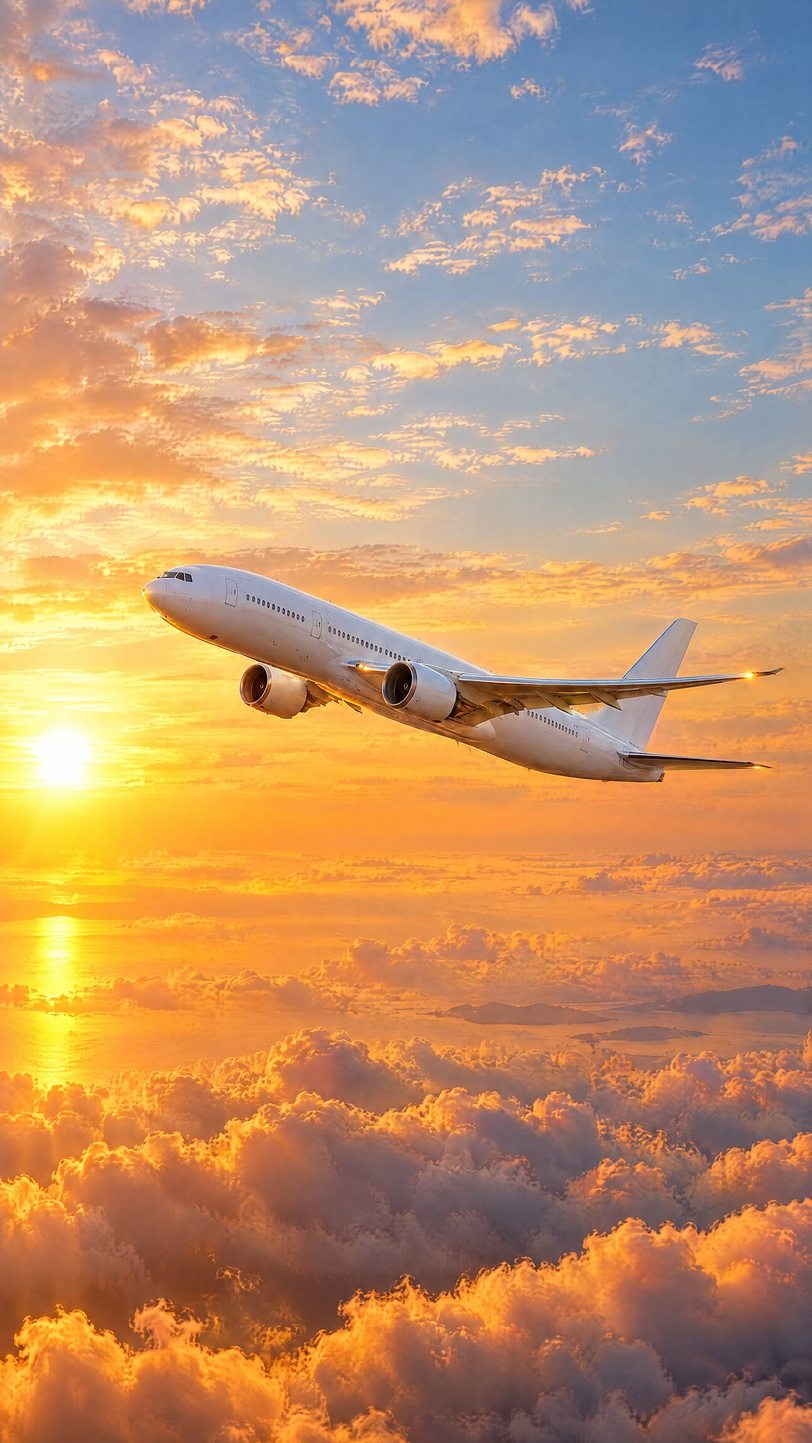
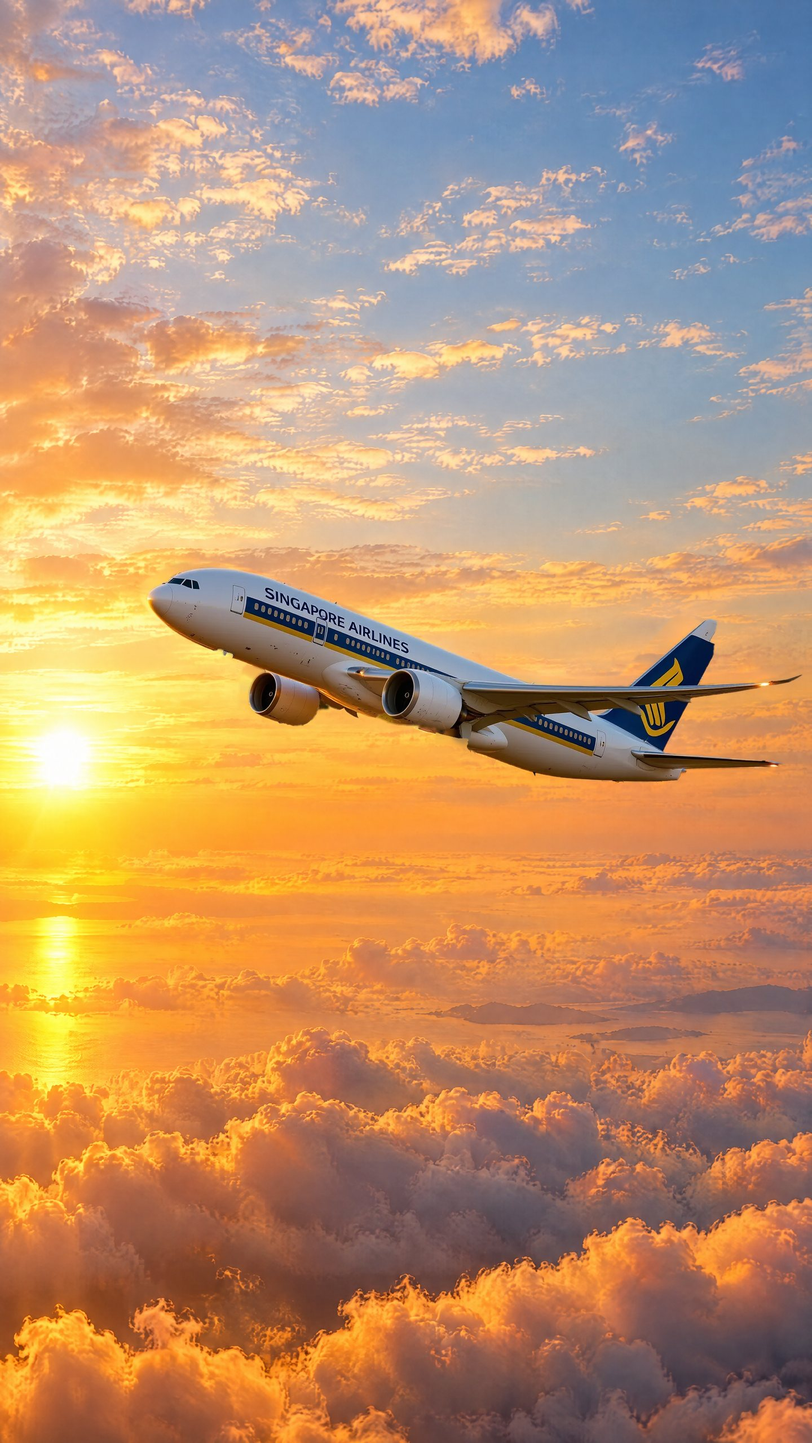
Diwali page: Diwali hero, Singapore Airlines plane, real parasailing photo, new villa tiles; pictures stay sharp on slower PCs
Owner's second round:
- Hero = the photo half of the owner's Diwali banner (baked text/button cropped away), headline ~27% smaller,
  "Illustrative image" label at every width.
- Plane in Singapore Airlines colours, original sky untouched (desktop + phone). A twin-jet, not an A380; the fine
  print says the aircraft type may differ.
- Water-sports chapter: real Commons photo "Parasailing in Tanjung Benoa" (Christophe95, CC BY-SA 4.0, credited).
- Clifftop: the owner's 3776px copy, sharpened without adding halos; phone crop.
- Owner's images as tiles: Jimbaran villa, new Day 4 (beach) and Day 7 (villa day); villa.jpg on the Diwali chapter.

Engine:
- Ripple strips and lens drops read one copy per frame instead of drawing the canvas onto itself (~100 full-canvas
  copies a frame). UHD 630: 31-47 fps at 70% resolution -> 60 fps at full; 2x screen 14-22 -> 51-60 fps.
- The safety valve never goes below the pre-sharpness size; tiles are paced on the page frame rate.
- Phone/desktop crops are re-picked when a phone turns; a late first load can't undo that.
- Each tile's fallback <img> uses the file its canvas draws: one download per picture.

Reviewed: Bug Hunter (4 rounds), App Security (2), QA acceptance by side effects (4).

Changed region(s): [[0.1562, 0.375, 0.9375, 0.5625]]

diff --git a/diwali-bali.html b/diwali-bali.html
@@ -11,7 +11,8 @@
 <meta name="twitter:card" content="summary_large_image">
 <meta name="theme-color" content="#0A0A0B">
 <link rel="icon" type="image/png" href="images/favicon.png">
-<link rel="preload" as="image" href="images/dest-bali.jpg">
+<link rel="preload" as="image" href="images/diwali-bali/hero-diwali.jpg" media="not all and (max-aspect-ratio: 4/5)">
+<link rel="preload" as="image" href="images/diwali-bali/hero-diwali-m.jpg" media="(max-aspect-ratio: 4/5)">
 <link rel="preconnect" href="https://fonts.googleapis.com">
 <link rel="preconnect" href="https://fonts.gstatic.com" crossorigin>
 <link rel="stylesheet" href="https://fonts.googleapis.com/css2?family=Unbounded:wght@400;600;800&family=JetBrains+Mono:wght@400;600&family=Manrope:wght@400;500;700&family=Tiro+Devanagari+Hindi&display=swap">
@@ -103,7 +104,7 @@ body.grain::after{content:"";position:fixed;inset:-50%;pointer-events:none;z-ind
 .hero{position:relative;height:100vh;height:100svh;min-height:600px;overflow:hidden;display:flex;flex-direction:column;justify-content:flex-end}
 .hero::after{content:"";position:absolute;inset:0;background:linear-gradient(180deg,rgba(10,10,11,.35) 0%,rgba(10,10,11,0) 30%,rgba(10,10,11,.15) 55%,rgba(10,10,11,.92) 100%);pointer-events:none}
 .hero-in{position:relative;z-index:2;padding:0 var(--gut) clamp(28px,5vh,56px);display:flex;flex-direction:column;gap:clamp(16px,2.4vh,26px)}
-.hero h1{font-size:clamp(54px,13.2vw,236px);text-transform:uppercase;line-height:.84}
+.hero h1{font-size:clamp(44px,9.4vw,172px);text-transform:uppercase;line-height:.84}
 .hero h1 .l2{display:block;padding-left:.9em}
 .hero-row{display:flex;justify-content:space-between;align-items:flex-end;gap:20px;flex-wrap:wrap}
 .hero-copy{max-width:44ch;font-size:clamp(15px,1.3vw,18px);color:#E6E1D6}
@@ -115,6 +116,7 @@ body.grain::after{content:"";position:fixed;inset:-50%;pointer-events:none;z-ind
 .chips{display:flex;gap:8px;flex-wrap:wrap}
 .chip{font-family:var(--mono);font-size:11px;letter-spacing:.1em;text-transform:uppercase;padding:6px 11px;border-radius:999px;border:1px solid var(--glass-line);background:rgba(10,10,11,.3);-webkit-backdrop-filter:blur(10px);backdrop-filter:blur(10px)}
 .scroll-cue{position:absolute;z-index:2;right:var(--gut);top:50%;writing-mode:vertical-rl;font-family:var(--mono);font-size:11px;letter-spacing:.2em;text-transform:uppercase;color:var(--ink-2)}
+.hero .hero-tag{top:158px;bottom:auto}
 @media (max-width:640px){.scroll-cue{display:none}.hero h1 .l2{padding-left:0}}
 
 /* counters */
@@ -325,7 +327,8 @@ body.has-cur,body.has-cur a,body.has-cur button,body.has-cur summary,body.has-cu
 <header class="hero" id="top">
   <canvas class="live" id="heroCanvas" aria-hidden="true"></canvas>
   <div class="toran dw" id="toran" aria-hidden="true"></div>
-  <div class="scroll-cue">Scroll · Ulun Danu Beratan, Bali</div>
+  <div class="scroll-cue">Scroll</div>
+  <div class="photo-tag hero-tag">Illustrative image</div>
   <div class="hero-in">
     <div class="chips">
       <span class="chip accent">Diwali special</span>
@@ -430,8 +433,8 @@ body.has-cur,body.has-cur a,body.has-cur button,body.has-cur summary,body.has-cu
       <div class="lbl glass"><h3>Fairfield by Marriott</h3><p>Or Nagraa / Legian, or similar. Deluxe room, a short walk from Kuta Beach.</p></div>
     </a>
     <a class="tile" data-k="exp" href="#itinerary" data-cursor="Explore">
-      <div class="ph"><img src="images/diwali-bali/surf.jpg" alt="Jet ski throwing spray on turquoise water" loading="lazy" data-key="surf"></div>
-      <span class="chip kind">Day 2</span><span class="chip live-tag">Illustrative</span>
+      <div class="ph"><img src="images/diwali-bali/parasail-m.jpg" alt="Two people parasailing above the sea at Tanjung Benoa, Bali" loading="lazy" data-key="surf"></div>
+      <span class="chip kind">Day 2</span><span class="chip live-tag">Photo · Tanjung Benoa</span>
       <div class="lbl glass"><h3>Surf and spray</h3><p>Jet ski, banana boat and parasailing.</p></div>
     </a>
     <div class="tile type dark" data-k="stay">
@@ -449,8 +452,13 @@ body.has-cur,body.has-cur a,body.has-cur button,body.has-cur summary,body.has-cu
       <span class="chip kind">Day 1</span><span class="chip live-tag">Illustrative</span>
       <div class="lbl glass"><h3>Garland welcome</h3><p>A fresh garland and a private transfer on arrival.</p></div>
     </a>
+    <a class="tile" data-k="exp" href="#itinerary" data-cursor="Explore">
+      <div class="ph"><img src="images/diwali-bali/beach-day.jpg" alt="A quiet beach at sunset (illustrative)" loading="lazy" data-key="beach"></div>
+      <span class="chip kind">Day 4</span><span class="chip live-tag">Illustrative</span>
+      <div class="lbl glass"><h3>A free day</h3><p>A free day for the beach, spa or shopping.</p></div>
+    </a>
     <a class="tile" data-k="stay" href="#enquire" data-cursor="View">
-      <div class="ph"><img src="images/diwali-bali/villa.jpg" alt="A private pool villa at dusk (illustrative, not the actual hotel)" loading="lazy" data-key="villa"></div>
+      <div class="ph"><img src="images/diwali-bali/jimbaran-villa.jpg" alt="A private plunge-pool villa in a tropical garden (illustrative, not the actual hotel)" loading="lazy" data-key="villa"></div>
       <span class="chip kind">2 nights · Jimbaran</span><span class="chip live-tag">Illustrative</span>
       <div class="lbl glass"><h3>Royal Tulip Jimbaran</h3><p>Or similar. A one-bedroom villa with its own pool, for Diwali night.</p></div>
     </a>
@@ -460,9 +468,14 @@ body.has-cur,body.has-cur a,body.has-cur button,body.has-cur summary,body.has-cu
       <div class="lbl glass"><h3>Tanah Lot + Ulun Danu</h3><p>Full-day Ubud tour to the two temples on the water.</p></div>
     </a>
     <a class="tile" data-k="exp" href="#itinerary" data-cursor="Explore">
-      <div class="ph"><img src="images/diwali-bali/flight.jpg" alt="Wide-body jet climbing above the clouds at golden hour" loading="lazy" data-key="flight"></div>
+      <div class="ph"><img src="images/diwali-bali/flight.jpg" alt="A Singapore Airlines jet climbing above the clouds at golden hour (illustration)" loading="lazy" data-key="flight"></div>
       <span class="chip kind">Flights</span><span class="chip live-tag">Illustrative</span>
       <div class="lbl glass"><h3>Singapore Airlines</h3><p>Return flights from Ahmedabad, included in the package.</p></div>
+    </a>
+    <a class="tile" data-k="exp" href="#itinerary" data-cursor="Explore">
+      <div class="ph"><img src="images/diwali-bali/villa-day.jpg" alt="An infinity pool beside a villa terrace above the jungle (illustrative, not the actual hotel)" loading="lazy" data-key="villaday"></div>
+      <span class="chip kind">Day 7</span><span class="chip live-tag">Illustrative</span>
+      <div class="lbl glass"><h3>Villa day</h3><p>A free day at the villa.</p></div>
     </a>
     <div class="tile type dark" data-k="exp">
       <span class="mono">Day 6 · Diwali</span>
@@ -536,7 +549,7 @@ body.has-cur,body.has-cur a,body.has-cur button,body.has-cur summary,body.has-cu
     <div class="rv"><b>05</b><span>Entrance fees as per the itinerary</span></div>
     <div class="rv"><b>06</b><span>Garland welcome on arrival and daily mineral water</span></div>
   </div>
-  <p class="fine">*Prices are indicative starting-from estimates per person and can change with season, hotel availability and current rates. Hotels are "or similar" and are confirmed at booking. Photos show the destinations on this trip, not the specific hotels. Images and videos marked "Illustrative" are AI-generated to show the experience, and the aircraft image is not an actual Singapore Airlines plane. The Uluwatu clifftop and temple-gate photos are AI-enhanced from photographs by Bali Star Island.</p>
+  <p class="fine">*Prices are indicative starting-from estimates per person and can change with season, hotel availability and current rates. Hotels are "or similar" and are confirmed at booking. Photos show the destinations on this trip, not the specific hotels. Images and videos marked "Illustrative" are AI-generated to show the experience. The aircraft is an AI illustration in Singapore Airlines colours, not a photograph, and the aircraft type on your flights may differ. The Uluwatu clifftop and temple-gate photos are AI-enhanced from photographs by Bali Star Island. Parasailing photo: <a href="https://commons.wikimedia.org/wiki/File:Parasailing_in_Tanjung_Benoa.jpg" rel="noopener">"Parasailing in Tanjung Benoa"</a> by Christophe95, <a href="https://creativecommons.org/licenses/by-sa/4.0/" rel="noopener">CC BY-SA 4.0</a>, colour-adjusted (and resized for phones).</p>
 </section>
 
 <!-- FAQ -->
@@ -667,8 +680,10 @@ function LiveScene(cv, scenes, opts){
   this.fg=document.createElement('canvas'); this.fgc=this.fg.getContext('2d');
   this.imgs=[]; this.glints=[]; this.blobs=[];
   var self=this;
-  loadImg(scenes[0].src,scenes[0].fb).then(function(im){ self.imgs[0]=im||'missing'; self.resize(); cv.classList.add('ready'); self.kick();
-    scenes.slice(1).forEach(function(s,i){ if(!s.src){ self.imgs[i+1]='gen'; return; } loadImg(s.src,s.fb).then(function(m){ self.imgs[i+1]=m||'missing'; }); });
+  /* a phone turned while these load re-frames the scene (reframe): an answer for a framing no longer wanted is dropped */
+  var first=scenes[0].src;
+  loadImg(first,scenes[0].fb).then(function(im){ if (scenes[0].src===first) self.imgs[0]=im||'missing'; self.resize(); if (self.imgs[0]) cv.classList.add('ready'); self.kick();
+    scenes.slice(1).forEach(function(s,i){ if(!s.src){ self.imgs[i+1]='gen'; return; } var w=s.src; loadImg(w,s.fb).then(function(m){ if (s.src===w) self.imgs[i+1]=m||'missing'; }); });
   });
   if (window.ResizeObserver) new ResizeObserver(function(){ self.resize(); }).observe(cv); else addEventListener('resize',function(){self.resize()});
   new IntersectionObserver(function(e){ self.visible=e[0].isIntersecting; self.kick(); },{rootMargin:'120px'}).observe(cv);
@@ -677,14 +692,16 @@ function LiveScene(cv, scenes, opts){
 }
 LiveScene.prototype.resize=function(){
   var r=this.cv.getBoundingClientRect(); if(!r.width) return;
-  var d=Math.min(window.devicePixelRatio||1,2), w=r.width*d, h=r.height*d, cap=this.opts.cap||(coarse?2.2e6:4.2e6);
+  var dpr=window.devicePixelRatio||1, d=Math.min(dpr,2), w=r.width*d, h=r.height*d, cap=this.opts.cap||(coarse?2.2e6:4.2e6);
   if (w*h>cap){ var k=Math.sqrt(cap/(w*h)); w*=k; h*=k; }
-  var qk=Math.sqrt(this.q||1); w*=qk; h*=qk; // the safety valve (pace) takes pixels off whatever size was settled on
+  /* the safety valve (pace) takes pixels off whatever size was settled on, but never below the size this page drew
+     before the sharpness work (1.5x density, at most 1.8 MP; tiles 0.6 MP): a slow computer is never worse off than before */
+  var d0=Math.min(dpr,1.5); this.minQ=Math.min(1,Math.min(r.width*d0*r.height*d0,this.opts.floor||(coarse?9e5:1.8e6))/(w*h));
+  var qk=Math.sqrt(Math.max(this.q||1,this.minQ)); w*=qk; h*=qk;
   w=Math.round(w); h=Math.round(h);
   if (w===this.W && h===this.H) return;
   this.W=this.cv.width=this.fg.width=w; this.H=this.cv.height=this.fg.height=h;
   this.px=w/r.width; // device px per css px
-  this.fits=null; // pre-shrunk copies are per canvas size
   this.seed();
   if (!this.running) this.frame(0);
 };
@@ -699,18 +716,20 @@ LiveScene.prototype.kick=function(){
   if (this.should() && !this.running){ this.running=true; var last=performance.now();
     var loop=function(now){ if(!self.should()){ self.running=false; return; }
       if (self.opts.every && (self.tick=(self.tick||0)+1)%self.opts.every){ requestAnimationFrame(loop); return; } // draw every Nth frame
-      var dt=Math.min(.05,(now-last)/1000); last=now; self.frame(dt); self.pace(dt); requestAnimationFrame(loop); };
+      var raw=(now-last)/1000, dt=Math.min(.05,raw); last=now; self.frame(dt); self.pace(Math.min(.1,raw/(self.opts.every||1)));
+      requestAnimationFrame(loop); };
     requestAnimationFrame(loop);
   } else if (!this.running && this.imgs[0]) { this.fade=1; this.frame(0); }
 };
-/* sharp by default; a computer that cannot keep ~28 fps (for ~2 s) gets a lower resolution, down to 40% */
+/* sharp by default; a computer that cannot keep ~28 fps (for ~2 s) gets a lower resolution, a step at a time, down to
+   the size this page used to draw at (minQ, set in resize) and never below it */
 LiveScene.prototype.pace=function(dt){
   this.ema=this.ema==null?dt:this.ema*.95+dt*.05; this.nf=(this.nf||0)+1;
-  if (this.nf>120 && this.ema>.036 && (this.q||1)>.4){ this.q=(this.q||1)*.7; this.nf=0; this.ema=null; this.W=0; this.resize(); }
+  if (this.nf>120 && this.ema>.036 && this.minQ && (this.q||1)>this.minQ+.001){ this.q=Math.max(this.minQ,(this.q||1)*.7); this.nf=0; this.ema=null; this.W=0; this.resize(); }
 };
 LiveScene.prototype.camera=function(s){
   var T=this.t, z, px, py;
-  if (this.opts.scroll){ var p=this.scroll; z=1.07+0.11*p; px=(s.pan||.03)*(p-.5)*2; py=-.02*p+Math.sin(T*.3)*.002; }
+  if (this.opts.scroll){ var p=this.scroll, zm=s.zoom||[1.07,.11]; z=zm[0]+zm[1]*p; px=(s.pan||.03)*(p-.5)*2; py=-.02*p+Math.sin(T*.3)*.002; }
   else { z=1.08+0.06*(0.5-0.5*Math.cos(T*0.09)); px=Math.sin(T*0.05)*0.022; py=Math.cos(T*0.037)*0.012; }
   this.mx+=(this.tx-this.mx)*.04; this.my+=(this.ty-this.my)*.04;
   return {z:z, px:px-this.mx*.012, py:py-this.my*.008};
@@ -730,11 +749,20 @@ LiveScene.prototype.fit=function(img){
   var iw=img.naturalWidth, ih=img.naturalHeight; if(!iw) return img;
   var k=Math.max(this.W/iw,this.H/ih)*1.25; // 1.25 covers the drone zoom (up to ~1.2x) so it never upscales the copy
   if (k>=.8) return img;
-  this.fits=this.fits||{}; var key=img.src, c=this.fits[key]; if (c) return c;
-  c=document.createElement('canvas'); c.width=Math.round(iw*k); c.height=Math.round(ih*k);
+  this.fits=this.fits||{}; var key=img.src, c=this.fits[key], cw=Math.round(iw*k);
+  if (c && c.width>=cw && c.width<=cw*1.5) return c; // still fits this canvas (a valve step is ~16%): no second shrink
+  c=document.createElement('canvas'); c.width=cw; c.height=Math.round(ih*k);
   var x=c.getContext('2d'); x.imageSmoothingEnabled=true; x.imageSmoothingQuality='high'; x.drawImage(img,0,0,c.width,c.height);
   c.naturalWidth=c.width; c.naturalHeight=c.height; // cover() reads these
   return this.fits[key]=c;
+};
+/* One copy of a band of the canvas, reused across frames: the ripple strips and the lens drops read from it. Drawing
+   the canvas onto itself strip by strip made the browser copy the whole canvas ~100 times a frame - that, more than
+   the picture size, is what held slower laptops at 20-30 fps. */
+LiveScene.prototype.grab=function(key,y,h,sc){
+  sc=sc||1; var c=this[key]||(this[key]=document.createElement('canvas')), w=Math.ceil(this.W*sc), hh=Math.max(1,Math.ceil(h*sc));
+  if (c.width!==w||c.height!==hh){ c.width=w; c.height=hh; }
+  c.getContext('2d').drawImage(this.cv,0,y,this.W,h,0,0,w,hh); return c;
 };
 LiveScene.prototype.base=function(idx,alpha){
   var s=this.scenes[idx], img=this.imgs[idx]; if(!img) return false;
@@ -773,9 +801,10 @@ LiveScene.prototype.frame=function(dt){
   /* water: strip displacement + glints */
   if (s.water!=null){
     var y0=Math.floor(H*s.water), step=Math.max(3,Math.round(4*d));
-    if (s.ripple!==false) for (var y=y0;y<H;y+=step){ var k=(y-y0)/(H-y0); // ripple:false keeps the glints, skips the strip shift
-      var off=Math.sin(T*1.2-Math.sqrt(k)*42)*(0.5+k*3.2)*d + Math.sin(T*.7+y*.02)*.6*d;
-      ctx.drawImage(this.cv,0,y,W,step,off-4*d,y,W+8*d,step); }
+    if (s.ripple!==false && y0<H){ var bW=this.grab('bandW',y0,H-y0); // ripple:false keeps the glints, skips the strip shift
+      for (var y=y0;y<H;y+=step){ var k=(y-y0)/(H-y0), shW=Math.min(step,H-y);
+        var off=Math.sin(T*1.2-Math.sqrt(k)*42)*(0.5+k*3.2)*d + Math.sin(T*.7+y*.02)*.6*d;
+        ctx.drawImage(bW,0,y-y0,W,shW,off-4*d,y,W+8*d,shW); } }
     ctx.globalCompositeOperation='lighter';
     for (var i=0;i<this.glints.length;i++){ var gl=this.glints[i]; var gy=y0+gl.y*(H-y0), gk=(gy-y0)/(H-y0);
       var al=Math.pow(Math.max(0,Math.sin(T*gl.s+gl.p)),8)*.45*a;
@@ -787,7 +816,9 @@ LiveScene.prototype.frame=function(dt){
   if (s.swell){
     var s0=H*s.swell[0], s1=H*s.swell[1];
     var yy0=Math.floor(s0), st=Math.max(3,Math.round(4*d));
-    for (var y2=yy0;y2<s1;y2+=st){ var o2=Math.sin(T*1.6-(y2-s0)/(s1-s0)*9)*1.6*d; ctx.drawImage(this.cv,0,y2,W,st,o2-4*d,y2,W+8*d,st); }
+    var bS=this.grab('bandS',yy0,Math.max(1,Math.min(H,Math.ceil(s1))-yy0));
+    for (var y2=yy0;y2<s1;y2+=st){ var o2=Math.sin(T*1.6-(y2-s0)/(s1-s0)*9)*1.6*d, sh2=Math.min(st,bS.height-(y2-yy0)); if (sh2<1) break;
+      ctx.drawImage(bS,0,y2-yy0,W,sh2,o2-4*d,y2,W+8*d,sh2); }
     ctx.globalCompositeOperation='lighter'; ctx.lineWidth=1.4*d;
     for (var j=0;j<4;j++){ var fr=((T*.05)+j/4)%1, ly=s0+Math.pow(fr,1.5)*(s1-s0), la=Math.sin(Math.PI*fr)*.22*a;
       ctx.strokeStyle='rgba(255,245,235,'+la+')'; ctx.beginPath();
@@ -860,12 +891,13 @@ LiveScene.prototype.frame=function(dt){
   /* lens: drops (the red/cyan fringe that used to double every edge is gone - owner wanted clear images) */
   if (prefs.lens && !this.opts.noLens){
     if (live && s.drops!==false){ this.dropTimer-=dt; if(this.dropTimer<0 && this.drops.length<4){ this.dropTimer=rand(3,7); this.drops.push({x:rand(.08,.92)*W,y:rand(.05,.6)*H,r:rand(7,20)*d,l:0,L:rand(8,14),v:0}); } }
-    for (var m=this.drops.length-1;m>=0;m--){ var D=this.drops[m];
+    var bD=null; for (var m=this.drops.length-1;m>=0;m--){ var D=this.drops[m];
       if (live){ D.l+=dt; if(Math.random()<.01) D.v=rand(6,26)*d; D.v*=.97; D.y+=D.v*dt; }
       var dl=D.l/D.L; if(dl>=1){ this.drops.splice(m,1); continue; }
       var da=Math.min(1,dl*4)*Math.min(1,(1-dl)*3);
       ctx.save(); ctx.globalAlpha=da; ctx.beginPath(); ctx.ellipse(D.x,D.y,D.r,D.r*1.08,0,0,6.283); ctx.clip();
-      ctx.translate(D.x,D.y); ctx.scale(1,-1); ctx.drawImage(this.cv,D.x-D.r*2.4,D.y-D.r*2.4,D.r*4.8,D.r*4.8,-D.r,-D.r,D.r*2,D.r*2); ctx.restore();
+      if (!bD) bD=this.grab('bandD',0,H,.5); // one half-size copy a frame serves every drop (each is drawn at under half size)
+      ctx.translate(D.x,D.y); ctx.scale(1,-1); ctx.drawImage(bD,(D.x-D.r*2.4)*.5,(D.y-D.r*2.4)*.5,D.r*2.4,D.r*2.4,-D.r,-D.r,D.r*2,D.r*2); ctx.restore();
       ctx.save(); ctx.globalAlpha=da; ctx.lineWidth=1.2*d; ctx.strokeStyle='rgba(0,0,0,.28)'; ctx.beginPath(); ctx.ellipse(D.x,D.y+.6*d,D.r,D.r*1.08,0,0,6.283); ctx.stroke();
       ctx.fillStyle='rgba(255,255,255,.55)'; ctx.beginPath(); ctx.arc(D.x-D.r*.35,D.y-D.r*.4,D.r*.18,0,6.283); ctx.fill(); ctx.restore(); }
   }
@@ -925,27 +957,44 @@ document.querySelectorAll('[data-rangoli]').forEach(buildRangoli);
 
 /* ---------- scenes ---------- */
 var ULUN={src:'images/dest-bali.jpg',focus:[.36,.5],horizon:.64,water:.71,glint:'255,190,120',mist:{y:.5,h:.12,a:.07,c:'255,220,190',dx:.6},embers:26,diyas:9,fireworks:.35,grade:['rgba(255,150,70,.35)','rgba(20,40,80,.3)']};
-var hero=new LiveScene(document.getElementById('heroCanvas'),[ULUN],{pointer:true});
+/* tall screens (phones) get the 9:16 versions, re-framed - picked at load and again whenever the screen turns (a
+   phone rotated after load used to keep the other crop) */
+var tallMQ=matchMedia('(max-aspect-ratio: 4/5)'), tall=tallMQ.matches;
+function frameFor(sc,t){ if(!sc.desk) sc.desk={src:sc.src,focus:sc.focus,spray:sc.spray}; // desktop framing, kept for the way back
+  if (t && sc.srcm){ sc.src=sc.srcm; sc.focus=[.5,.5]; sc.spray=sc.desk.spray&&[.5,sc.desk.spray[1]]; }
+  else { sc.src=sc.desk.src; sc.focus=(t&&sc.focusm)||sc.desk.focus; sc.spray=sc.desk.spray; } }
+/* the owner's Diwali image (illustrative), its photo half only - the words and button baked into the left are not used */
+var HERO={src:'images/diwali-bali/hero-diwali.jpg',srcm:'images/diwali-bali/hero-diwali-m.jpg',focus:[.5,.5],embers:20,fireworks:.45,grade:['rgba(255,150,70,.16)','rgba(20,20,60,.22)']};
+frameFor(HERO,tall);
+var hero=new LiveScene(document.getElementById('heroCanvas'),[HERO],{pointer:true});
 
 var AI='images/diwali-bali/';
 var STORY=[
   {src:AI+'flight.jpg',srcm:AI+'flight-m.jpg',tag:'Illustrative image',focus:[.62,.5],mist:{y:.72,h:.5,a:.1,c:'255,235,215',dx:1.6},grade:['rgba(255,170,90,.22)','rgba(40,60,120,.25)'],pan:.06,drops:false},
   {src:AI+'garland.jpg',srcm:AI+'garland-m.jpg',tag:'Illustrative image',focus:[.62,.45],petals:26,embers:10,grade:['rgba(255,160,70,.25)','rgba(60,20,10,.25)'],pan:.03,drops:false},
-  {src:AI+'surf.jpg',tag:'Illustrative image',focus:[.62,.5],water:.55,ripple:false,glint:'255,255,245',spray:[.66,.6],grade:['rgba(120,200,255,.15)','rgba(0,80,110,.2)'],pan:.05},
-  {src:AI+'uluwatu-cliff.jpg',tag:'Illustrative image',focus:[.52,.5],focusm:[.58,.5],mist:{y:.22,h:.2,a:.07,c:'255,220,200',dx:1.2},grade:['rgba(255,150,80,.25)','rgba(60,30,90,.25)'],pan:.05},
+  {src:AI+'parasail.jpg',srcm:AI+'parasail-m.jpg',tag:'Photo · parasailing at Tanjung Benoa',focus:[.5,.41],zoom:[1.02,0],grade:['rgba(120,200,255,.1)','rgba(0,80,110,.14)'],pan:.02},
+  {src:AI+'uluwatu-cliff.jpg',srcm:AI+'uluwatu-cliff-m.jpg',tag:'Illustrative image',focus:[.52,.5],mist:{y:.22,h:.2,a:.07,c:'255,220,200',dx:1.2},grade:['rgba(255,150,80,.25)','rgba(60,30,90,.25)'],pan:.05},
   {src:'images/dest-bali.jpg',tag:'Ulun Danu Beratan',focus:[.4,.55],horizon:.64,water:.71,glint:'255,190,120',mist:{y:.52,h:.1,a:.08,c:'255,225,200',dx:.5},embers:10,diyas:6,grade:['rgba(255,150,70,.3)','rgba(20,40,80,.3)'],pan:.04},
-  {src:null,gen:'night',tag:'Diwali night · diyas on the water',water:.6,glint:'255,170,90',embers:36,diyas:26,drops:false,fireworks:1}
+  {src:AI+'villa.jpg',tag:'Illustrative image',focus:[.5,.55],embers:30,fireworks:1,grade:['rgba(255,150,70,.22)','rgba(20,30,80,.28)'],pan:.04,drops:false}
 ];
-/* tall screens get the 9:16 versions, re-framed for phones */
-if (matchMedia('(max-aspect-ratio: 4/5)').matches) STORY.forEach(function(sc){ if(sc.srcm){ sc.src=sc.srcm; sc.focus=[.5,.5]; if(sc.spray) sc.spray=[.5,sc.spray[1]]; } else if(sc.focusm) sc.focus=sc.focusm; });
+STORY.forEach(function(sc){ frameFor(sc,tall); });
 var story=new LiveScene(document.getElementById('storyCanvas'),STORY,{scroll:true});
+function reframe(){ var t=tallMQ.matches; if (t===tall) return; tall=t;
+  [[hero,[HERO]],[story,STORY]].forEach(function(p){ var ls=p[0];
+    p[1].forEach(function(sc,i){ var was=sc.src; frameFor(sc,t); if (!sc.src || sc.src===was) return;
+      var want=sc.src; loadImg(want,sc.fb).then(function(im){ if (sc.src!==want) return; ls.imgs[i]=im||'missing';
+        if (i===0){ ls.cv.classList.add('ready'); ls.resize(); } ls.kick(); }); }); // kick: starts it if its first load was overtaken
+    if (!ls.running) ls.frame(0); }); }
+if (tallMQ.addEventListener) tallMQ.addEventListener('change',reframe); else if (tallMQ.addListener) tallMQ.addListener(reframe);
 
 /* live photo tiles in the grid (same engine, lighter settings) */
 var TILE_FX={
   kuta:{src:'images/places/bali-seminyak-and-kuta.jpg',focus:[.5,.5],swell:[.55,.63],water:.63,glint:'255,170,110',embers:6,grade:['rgba(80,120,255,.25)','rgba(255,140,60,.25)']},
   surf:STORY[2], garland:STORY[1], flight:STORY[0],
   uluwatu:{src:AI+'uluwatu-gate.jpg',focus:[.5,.5],embers:6,grade:['rgba(255,150,80,.2)','rgba(60,30,90,.2)']},
-  villa:{src:AI+'villa.jpg',focus:[.5,.55],embers:4,grade:['rgba(255,160,80,.15)','rgba(20,30,80,.2)']},
+  villa:{src:AI+'jimbaran-villa.jpg',focus:[.5,.6],embers:4,grade:['rgba(255,160,80,.12)','rgba(20,30,80,.16)']},
+  beach:{src:AI+'beach-day.jpg',focus:[.5,.5],grade:['rgba(255,160,80,.12)','rgba(20,30,80,.16)']},
+  villaday:{src:AI+'villa-day.jpg',focus:[.45,.55],grade:['rgba(255,190,120,.1)','rgba(20,40,60,.14)']},
   'garland-night':{src:AI+'garland-night.jpg',focus:[.62,.5],petals:10,embers:14,fireworks:.3,grade:['rgba(40,40,120,.2)','rgba(255,140,50,.25)']},
   'uluwatu-night':{src:AI+'uluwatu-night.jpg',focus:[.62,.5],swell:[.8,.98],spray:[.7,.86],embers:10,fireworks:.6,grade:['rgba(40,40,120,.2)','rgba(255,140,50,.2)']},
   'flight-night':{src:AI+'flight-night.jpg',focus:[.62,.5],mist:{y:.75,h:.4,a:.08,c:'255,210,170',dx:1.6},fireworks:.5,grade:['rgba(30,40,110,.2)','rgba(255,150,60,.2)']},
@@ -956,7 +1005,8 @@ document.querySelectorAll('#workSrc .tile .ph, #nights .tile .ph').forEach(funct
   var img=ph.querySelector('img'), fx=TILE_FX[img.dataset.key]; if(!fx) return;
   var c=document.createElement('canvas'); c.className='live'; c.setAttribute('aria-hidden','true'); ph.appendChild(c);
   var cfg={}; for (var k in fx) cfg[k]=fx[k]; delete cfg.horizon; cfg.drops=false; if(cfg.petals) cfg.petals=10;
-  tileScenes.push(new LiveScene(c,[cfg],{noLens:true,cap:1.2e6,every:2})); // tiles: sharper than before, at 30 fps (6-9 run at once)
+  if (cfg.src && img.getAttribute('src')!==cfg.src) img.src=cfg.src; // the fallback <img> shows the file the canvas draws: one download, not two
+  tileScenes.push(new LiveScene(c,[cfg],{noLens:true,cap:1.2e6,floor:6e5,every:2})); // tiles: sharper than before, at 30 fps (6-11 run at once)
 });
 
 /* ---------- scroll: progress, pinned story ---------- */

diff --git a/MEMORY.md b/MEMORY.md
@@ -130,3 +130,19 @@ automation, grounded in Skyline's real packages and fact-checked. Read
   Intel UHD 630), no fringe, no ripple on the surf scene, grain halved, tiles at 30 fps, and a safety valve that
   lowers resolution on a slow computer. The dotted spray in `surf.jpg` is in the AI image itself - only a new
   image would remove it.
+- **Second round (same day):** the hero is the owner's Canva AI "Diwali Celebration" banner, photo half only
+  (`hero-diwali.jpg`, `hero-diwali-m.jpg` for tall screens; the banner's baked-in words, button and gold corners are
+  cropped away), headline about 27% smaller. The plane (`flight.jpg`, `flight-m.jpg`) wears Singapore Airlines colours
+  at the owner's request: an AI edit of the plane only, the sky is the original. It is a twin-jet, not the A380 the
+  owner asked for - the free AI editor keeps the two-engine shape - and the fine print says the aircraft type may
+  differ. Chapter 3 is a real photo, "Parasailing in Tanjung Benoa" by Christophe95 (CC BY-SA 4.0, credited in the
+  fine print; the free AI image services gave nothing realistic). Chapter 4 uses the biggest clifftop copy (3776px,
+  sharpened; `uluwatu-cliff-m.jpg` is its phone crop). Chapter 6 is `villa.jpg` with fireworks. Tiles: Jimbaran =
+  `jimbaran-villa.jpg`, new Day 4 `beach-day.jpg` and Day 7 `villa-day.jpg` (Canva AI, captions cropped, labelled
+  Illustrative). `surf.jpg` is no longer used. The phone/desktop crops (hero, and every chapter with an `-m` file)
+  are re-picked when a phone is turned (`reframe`); they used to be fixed at page load.
+- **Pictures went soft after ~20 s on slower PCs (fixed in the second round):** the water ripple and lens drops drew
+  the canvas onto itself, strip by strip - about 100 full-canvas copies a frame - so the safety valve kept cutting the
+  resolution. They now read one copy per frame (`LiveScene.grab`); the valve never goes below the size the page drew
+  before the sharpness work (1.5x density, 1.8 MP; tiles 0.6 MP), and tiles judge the page's frame rate rather than
+  their own every-other-frame one. Owner's Intel UHD 630 at 1920x1080: 31-47 fps at 70% resolution before, 60 fps at full resolution after (a 2x screen: 14-22 fps before, 51-60 fps after).

diff --git a/HANDOVER.md b/HANDOVER.md
@@ -10,6 +10,9 @@ H.264; Higgsfield URLs gone), owner's Uluwatu + villa images added, chat worker 
 `anthropic-5`; **paste it into Cloudflare to deploy**). Detail: `MEMORY.md`, 2026-09-26 entry.
 Phones (fixed 2026-09-26, `9386008`): 11 pages used to lay out 396-650px wide on a 390px phone; headers, the
 Customize form and three card grids now fit. Desktop Diwali photos made sharp without losing frame rate (see MEMORY.md).
+Diwali page, second round (same day): Diwali hero image and a smaller headline, a Singapore Airlines plane, a real
+parasailing photo for the water-sports chapter, new villa/beach tiles, and a fix for pictures going soft after ~20 s
+on slower PCs (see MEMORY.md).
 
 ---
 
